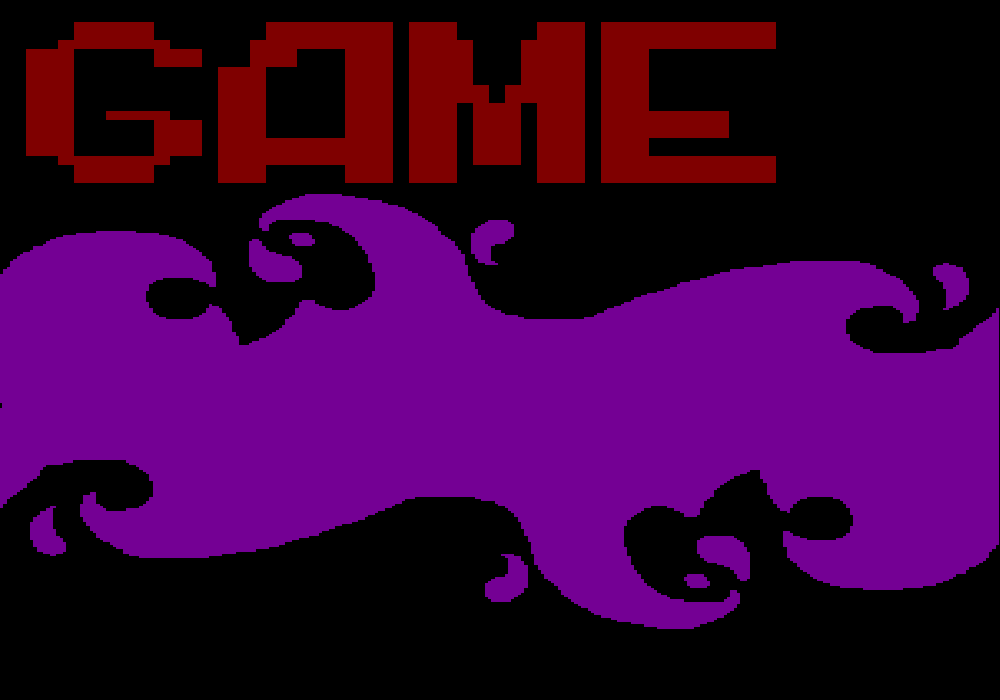
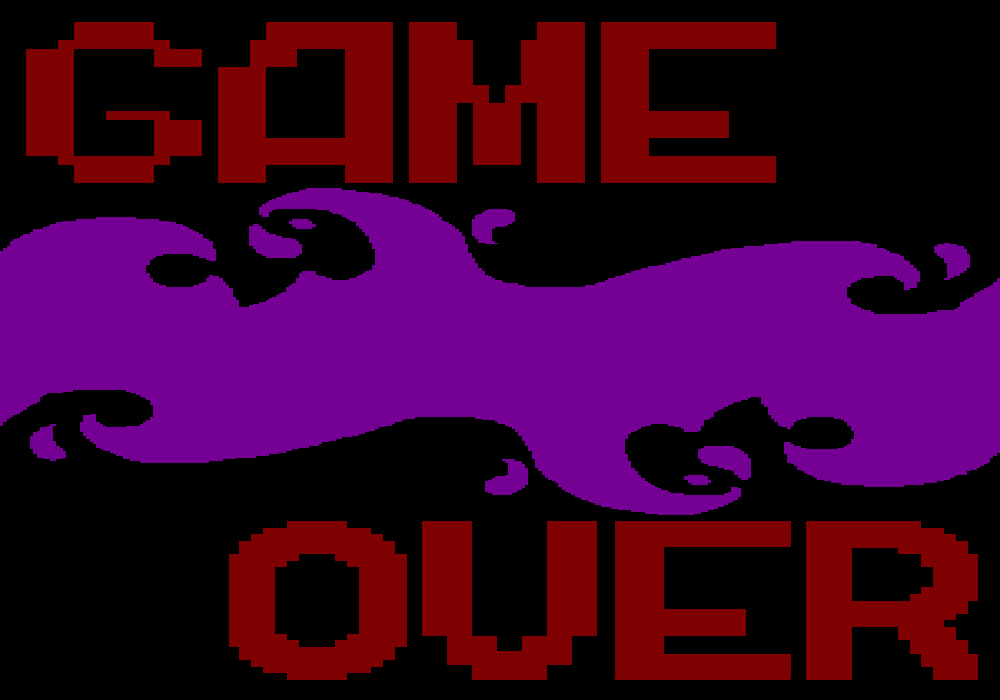
wow death

Changed region(s): [[0.0, 0.27, 1.0, 0.99], [0.0, 0.54, 0.155, 0.72]]

diff --git a/Game.py b/Game.py
@@ -72,7 +72,7 @@ while True:
     pygame.mixer.music.play(-1, 0.0) 
     HUDs += [HUDHearts([screenWidth-60, 10],players[0])]  
             
-    while run:
+    while run and players[0].living:
         for event in pygame.event.get():
                 if event.type == pygame.QUIT: 
                     level.killOldLevels(0)
@@ -196,3 +196,28 @@ while True:
         for hud in HUDs:
             screen.blit(hud.image, hud.rect)
         pygame.display.flip()
+        
+    bgImage = pygame.image.load("RSC/MainMenu/gameover.png").convert()
+    bgRect = bgImage.get_rect()
+    
+    while run and not players[0].living:
+        for event in pygame.event.get():
+            if event.type == pygame.QUIT: sys.exit()
+            if event.type == pygame.MOUSEBUTTONDOWN:
+                playButton.click(event.pos)
+            if event.type == pygame.MOUSEBUTTONUP:
+                if playButton.release(event.pos):
+                    run = True
+                    level.killOldLevels(0)
+                    level = Level("screen24", ["Dan", "Sean"], screenSize)
+                    players = level.players
+                    ghosts = level.ghosts
+                    leviathans = level.leviathans
+                    demons = level.demons
+                    
+        bgColor = r,g,b
+        screen.fill(bgColor)
+        screen.blit(bgImage, bgRect)
+        screen.blit(playButton.image, playButton.rect)
+        pygame.display.flip()
+        clock.tick(60)
